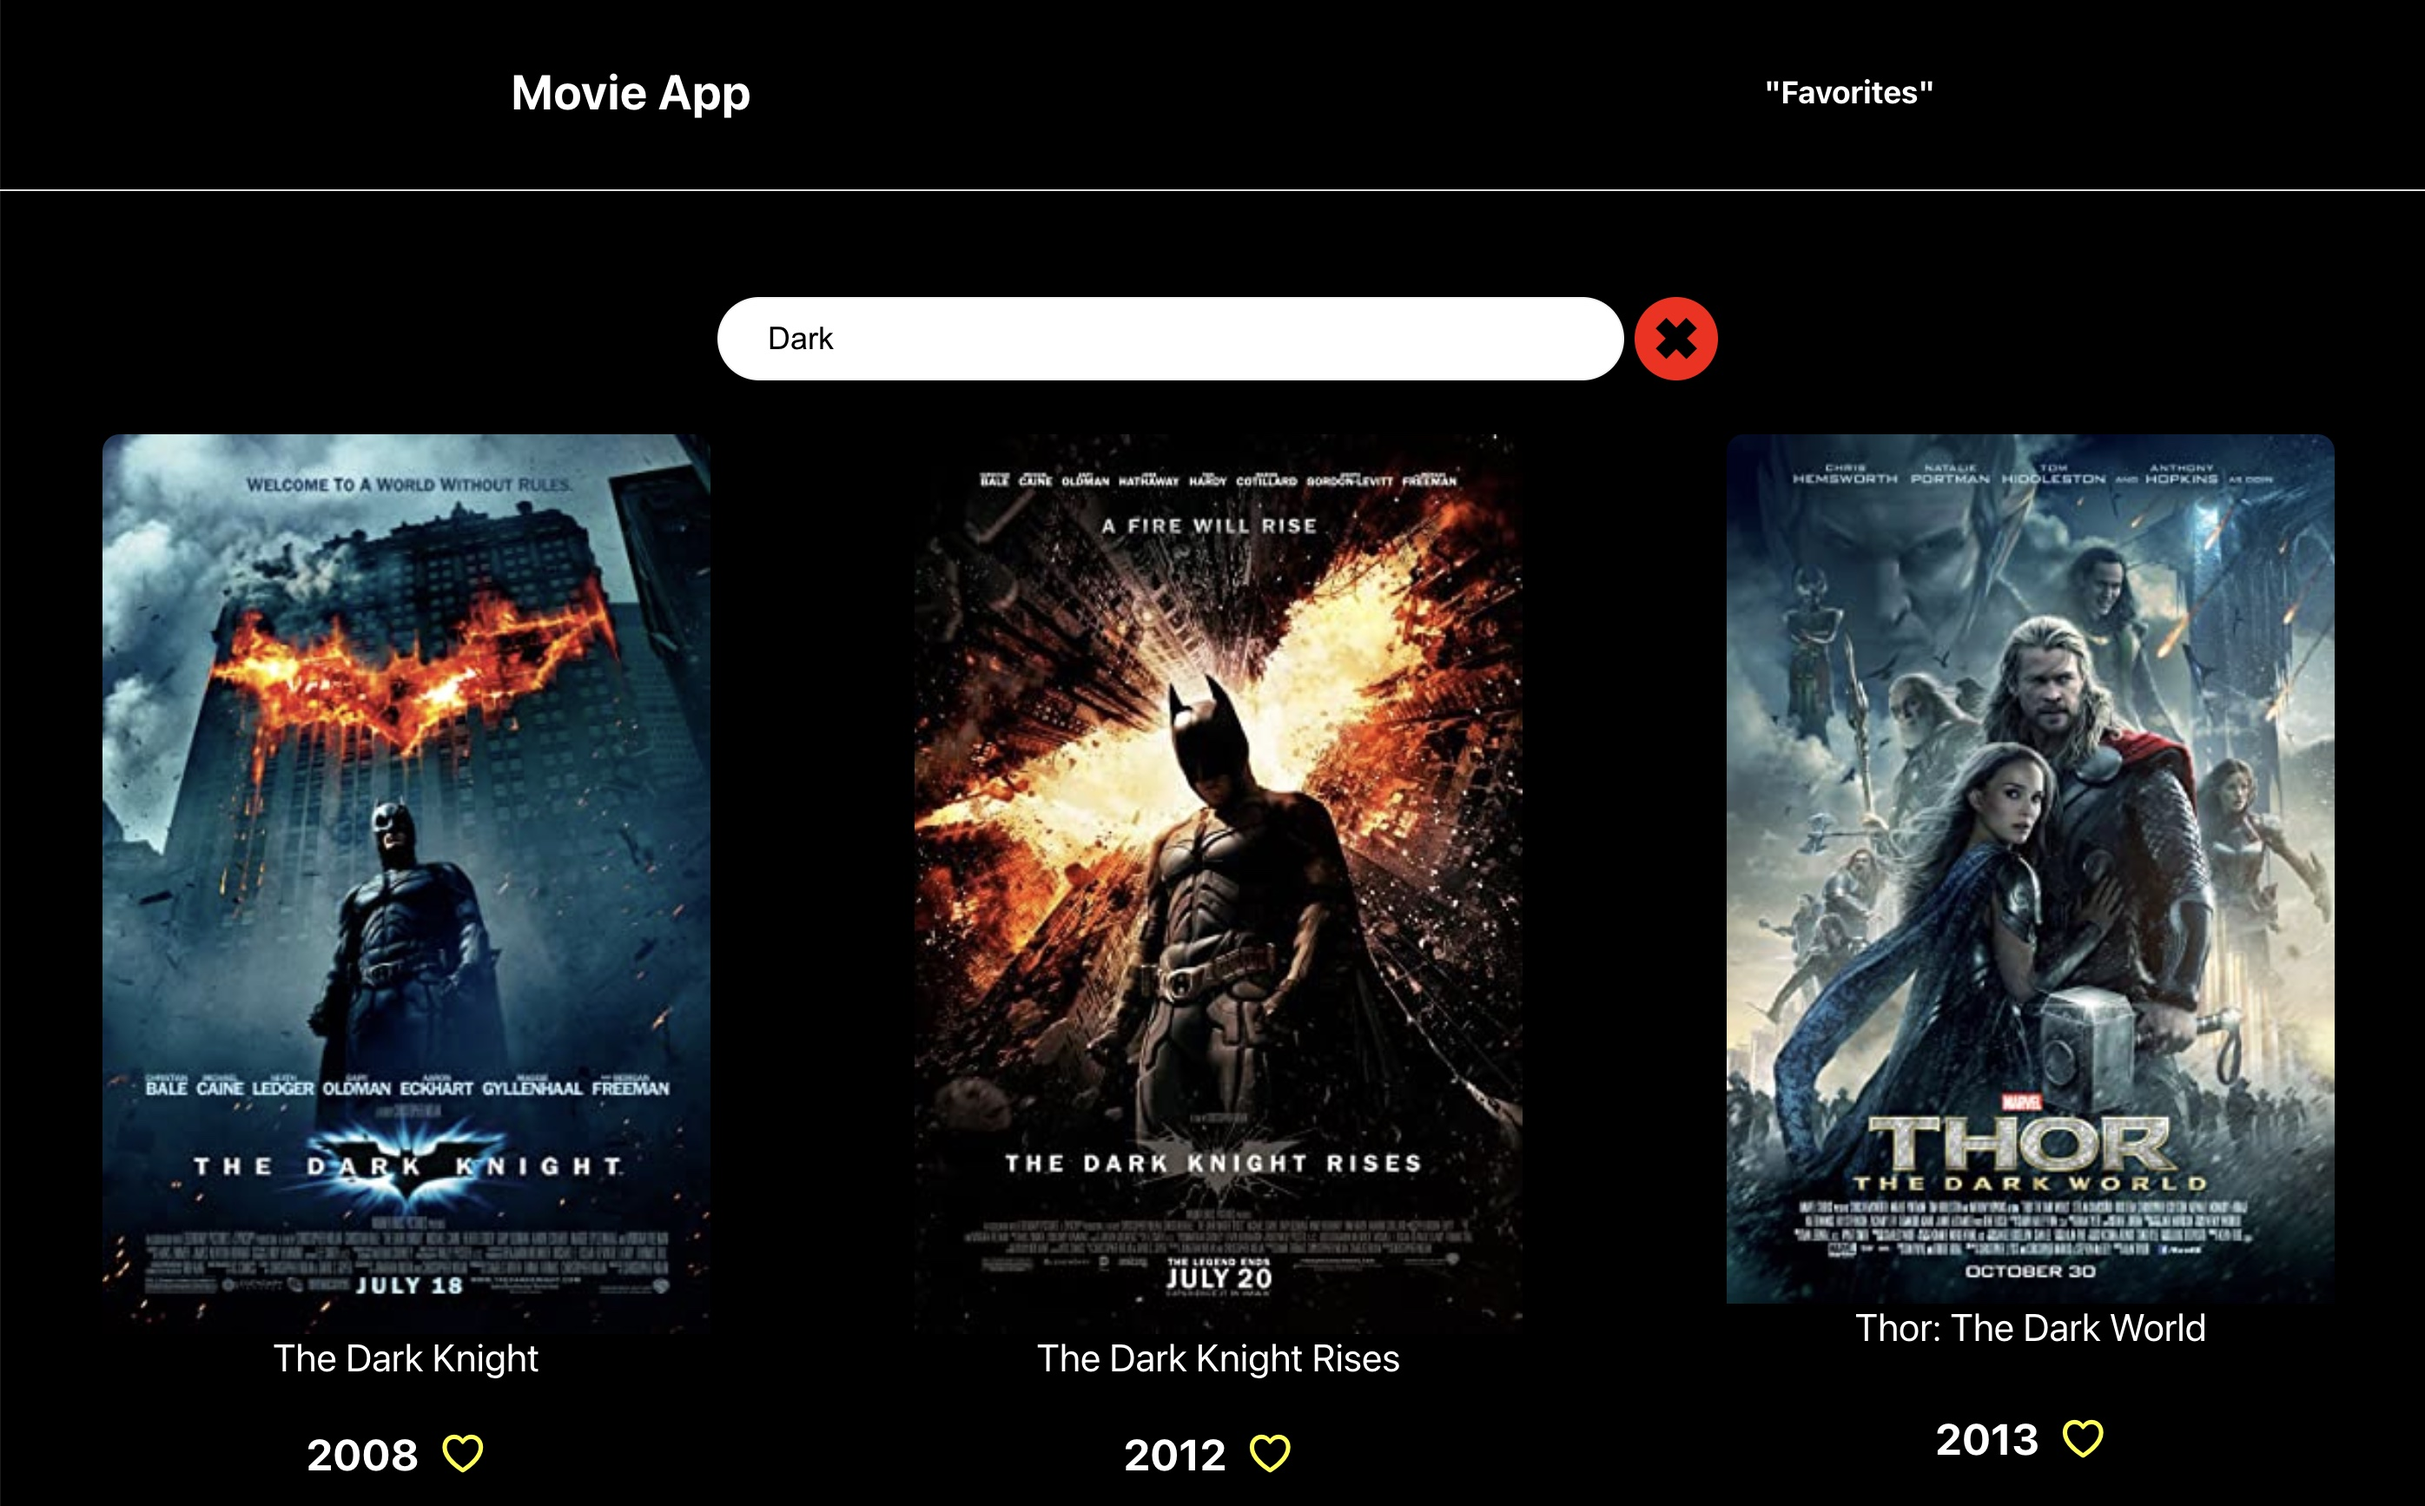
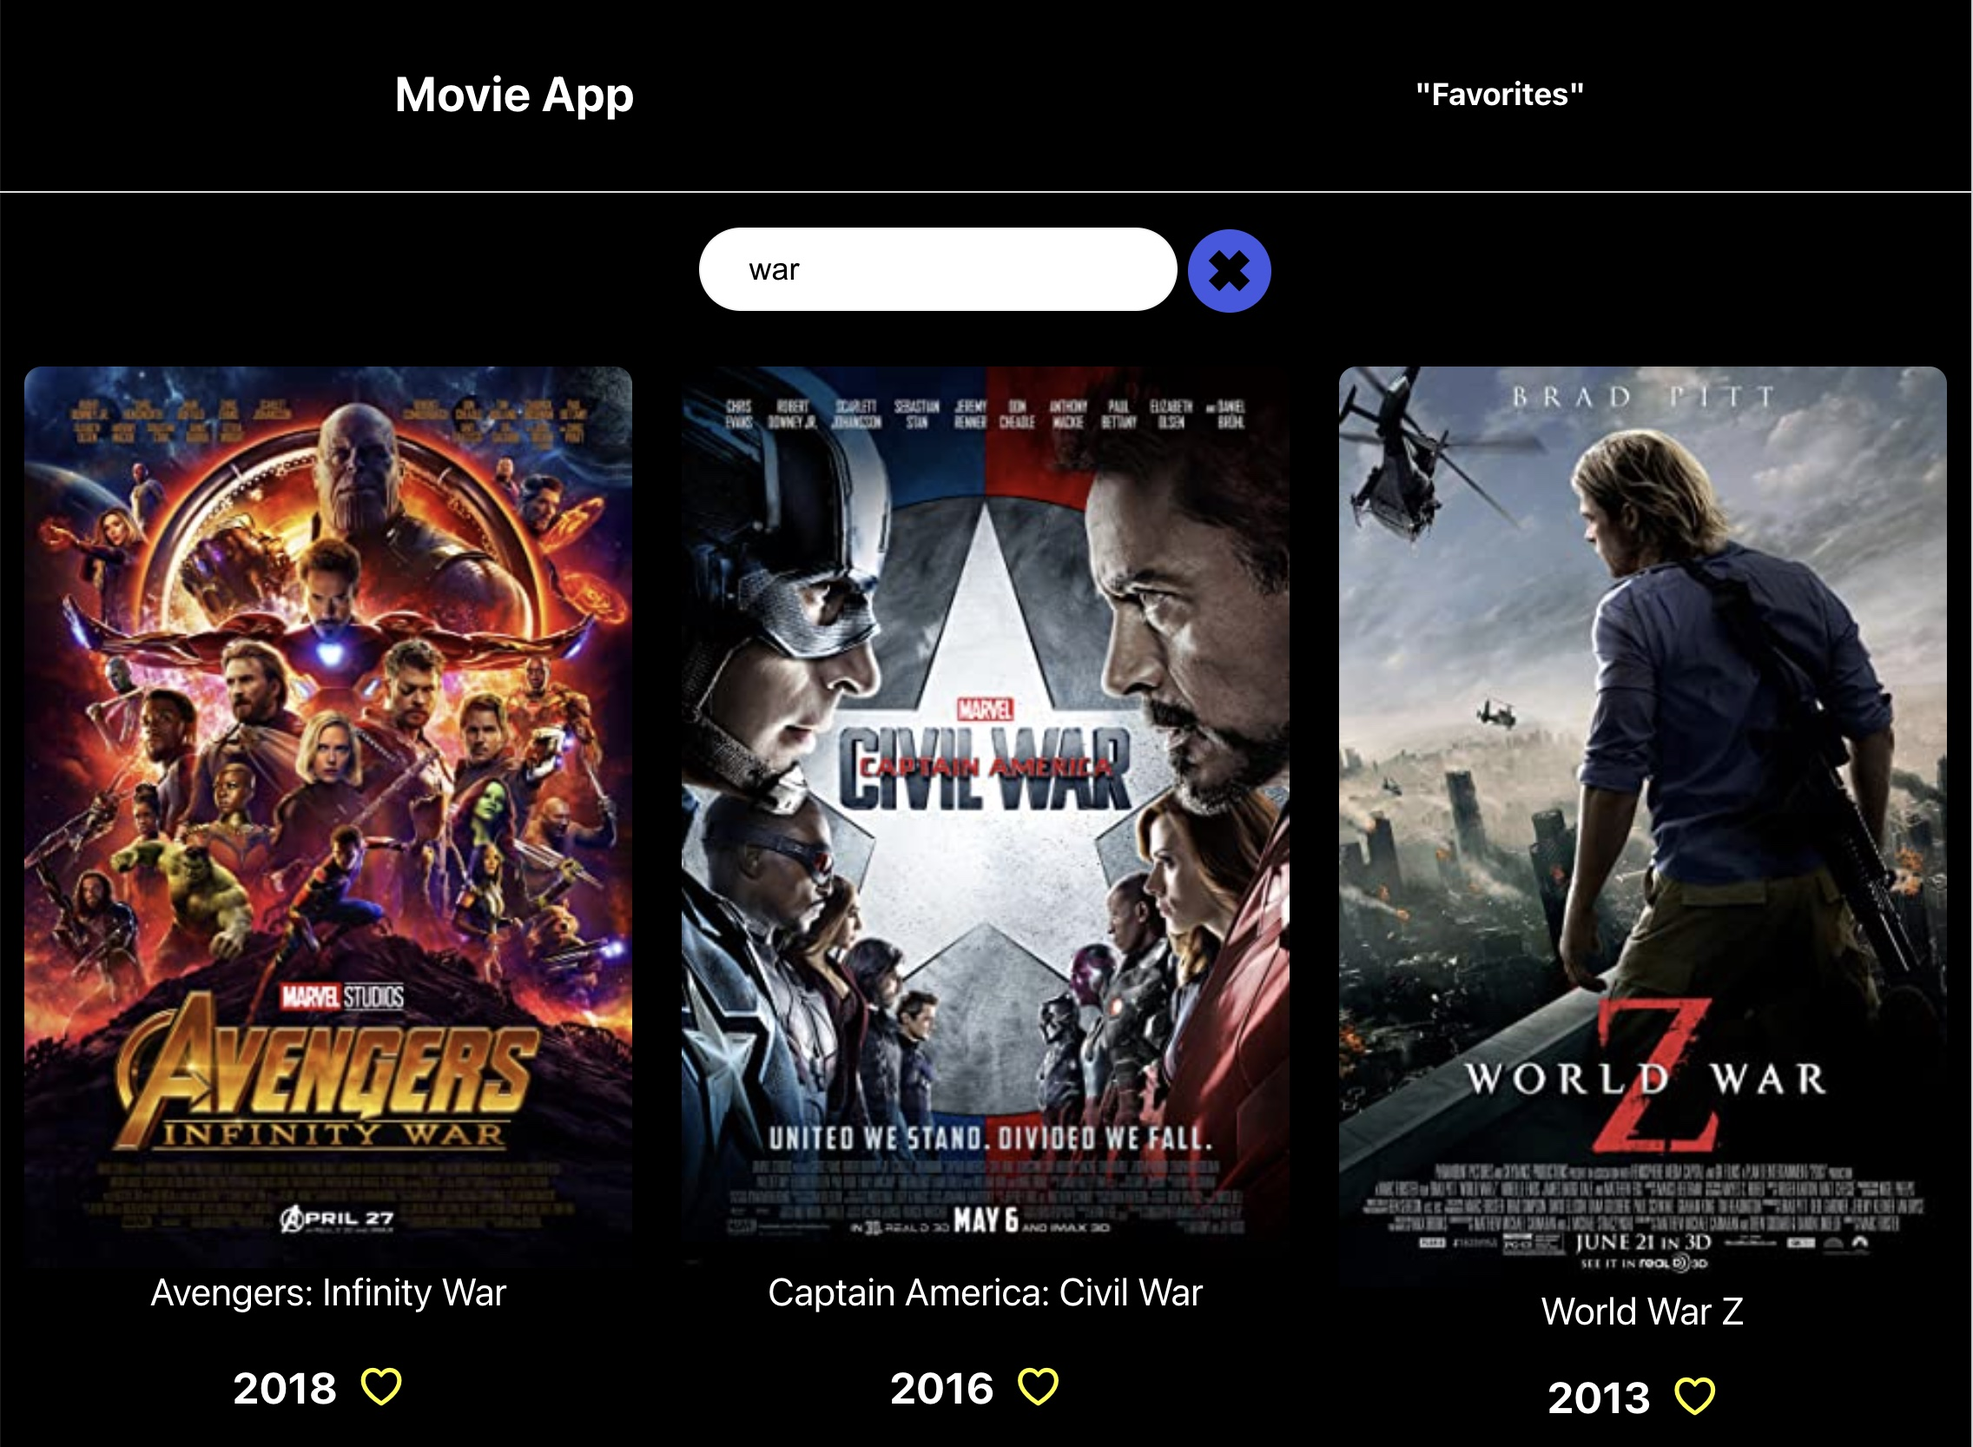
chore: mobile friendly

diff --git a/src/components/input/Search.css b/src/components/input/Search.css
@@ -1,14 +1,15 @@
 .input-wrapper {
   display: flex;
   justify-content: center;
-  padding: 20px;
+  padding: 20px 0px;
   margin-top: 40px;
+  width: 50vmax;
+  margin: auto;
+
 }
 
 input {
-  width: 522px;
   height: 48px;
-  margin: auto;
   font-size: inherit;
   padding: 0 58px 0 28px;
   border-radius: 30px;
@@ -20,7 +21,7 @@ input {
 }
 
 .clear {
-  background-color: red;
+  background-color: rgb(68, 89, 229);
   border:1px solid ;
   margin-left: 5px;
   height: 50px;

diff --git a/src/components/input/Search.tsx b/src/components/input/Search.tsx
@@ -33,7 +33,7 @@ const handleClear = () =>
         value= {activeQuery}
         onChange={handleSearch}
       />
-      <button className="clear" onClick={handleClear} >&#x2716;</button>
+      { activeQuery !== '' && <button className="clear" onClick={handleClear} >&#x2716;</button>}
     </div>
   );
 };
